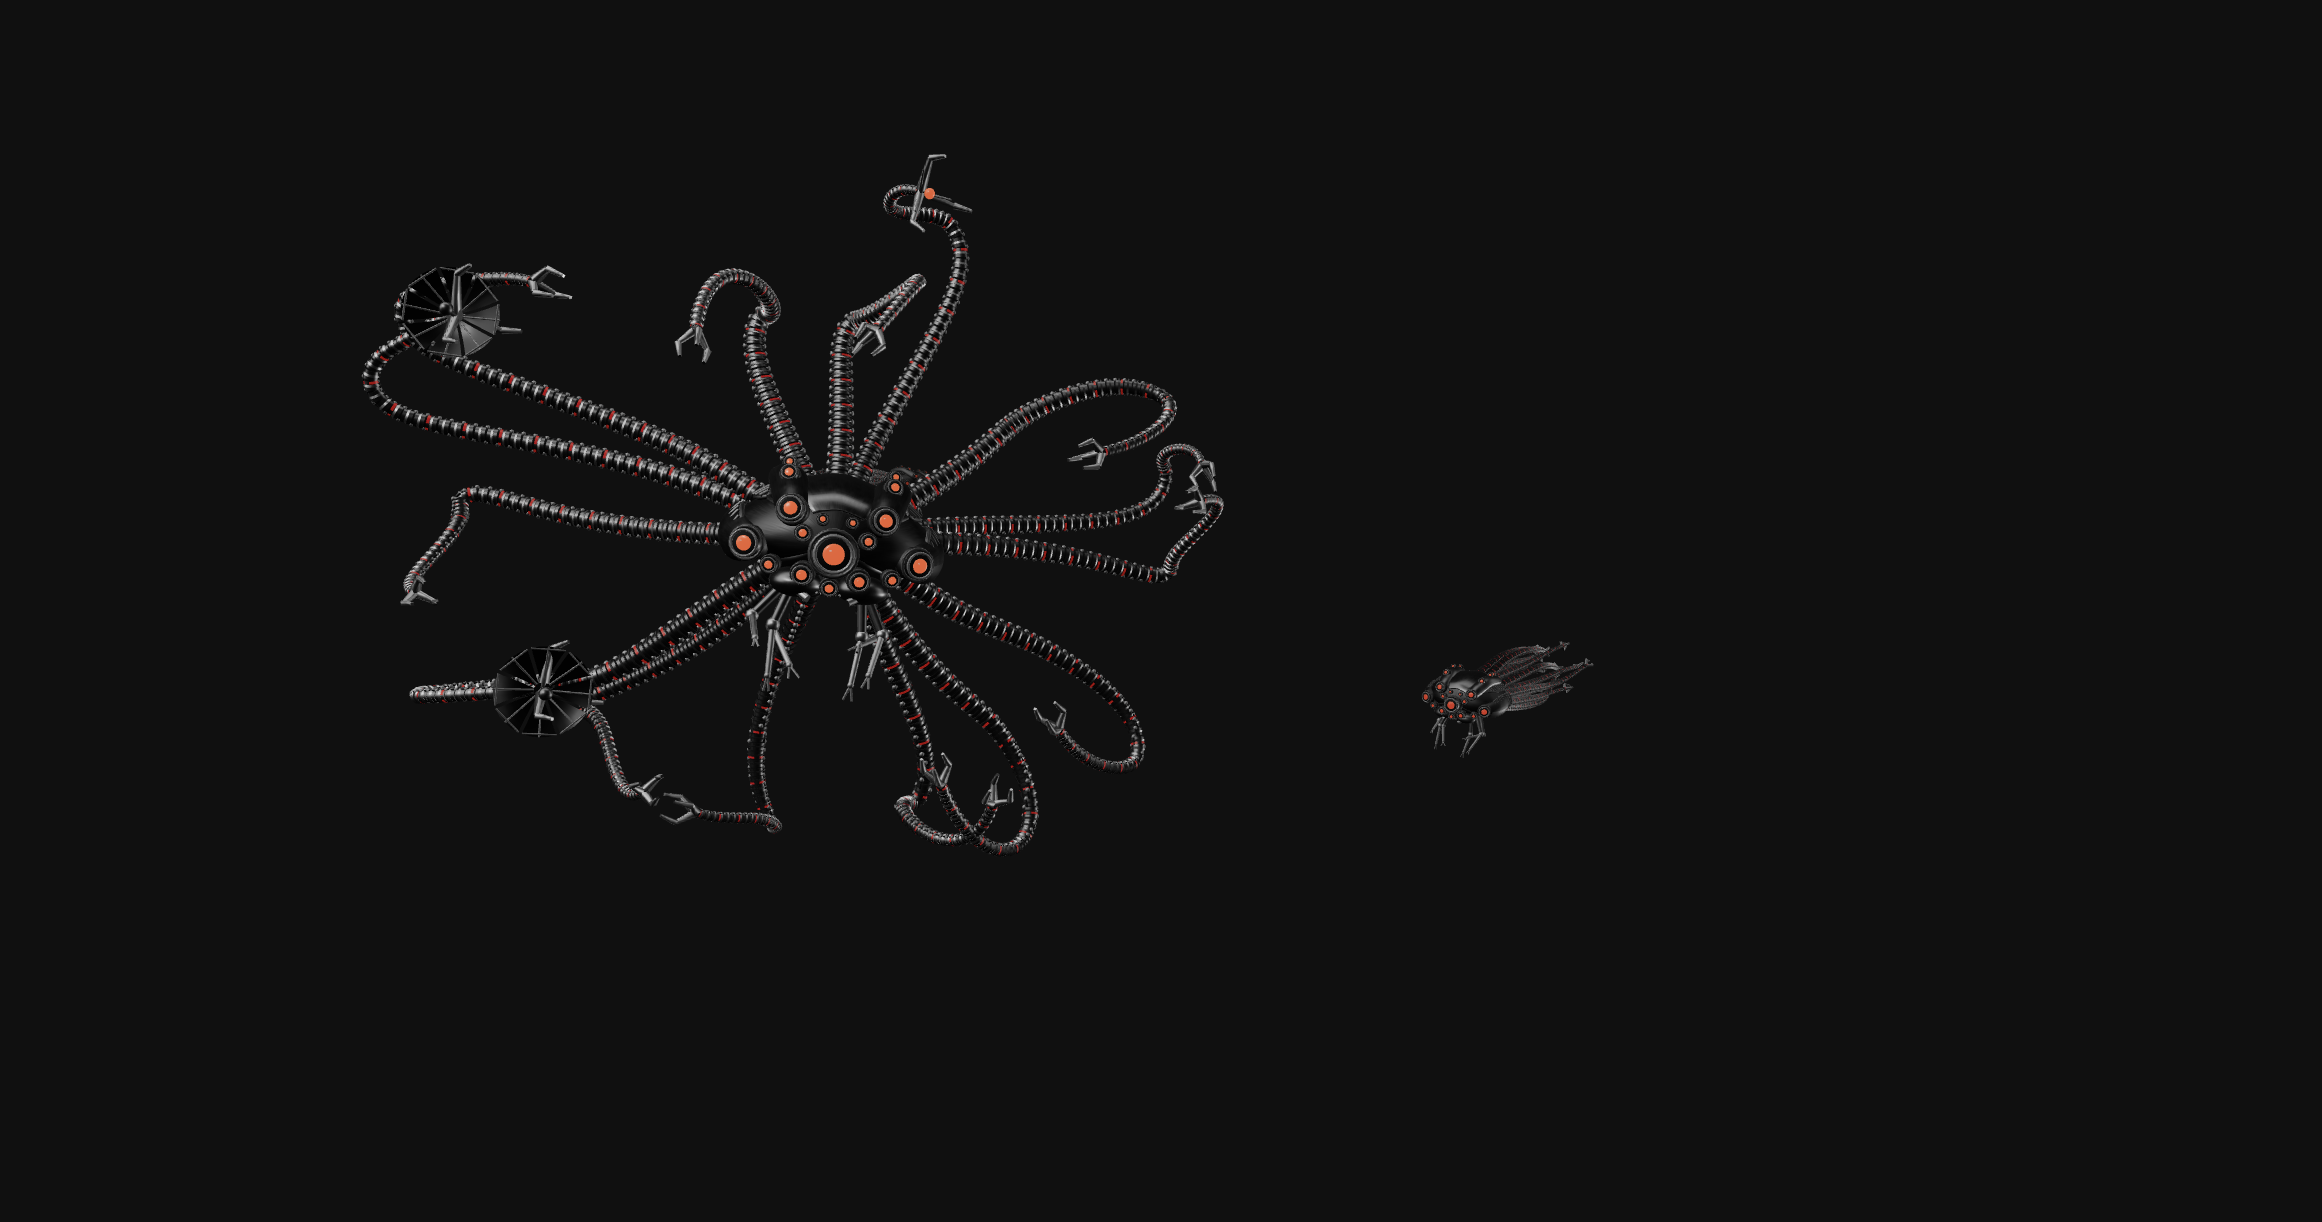
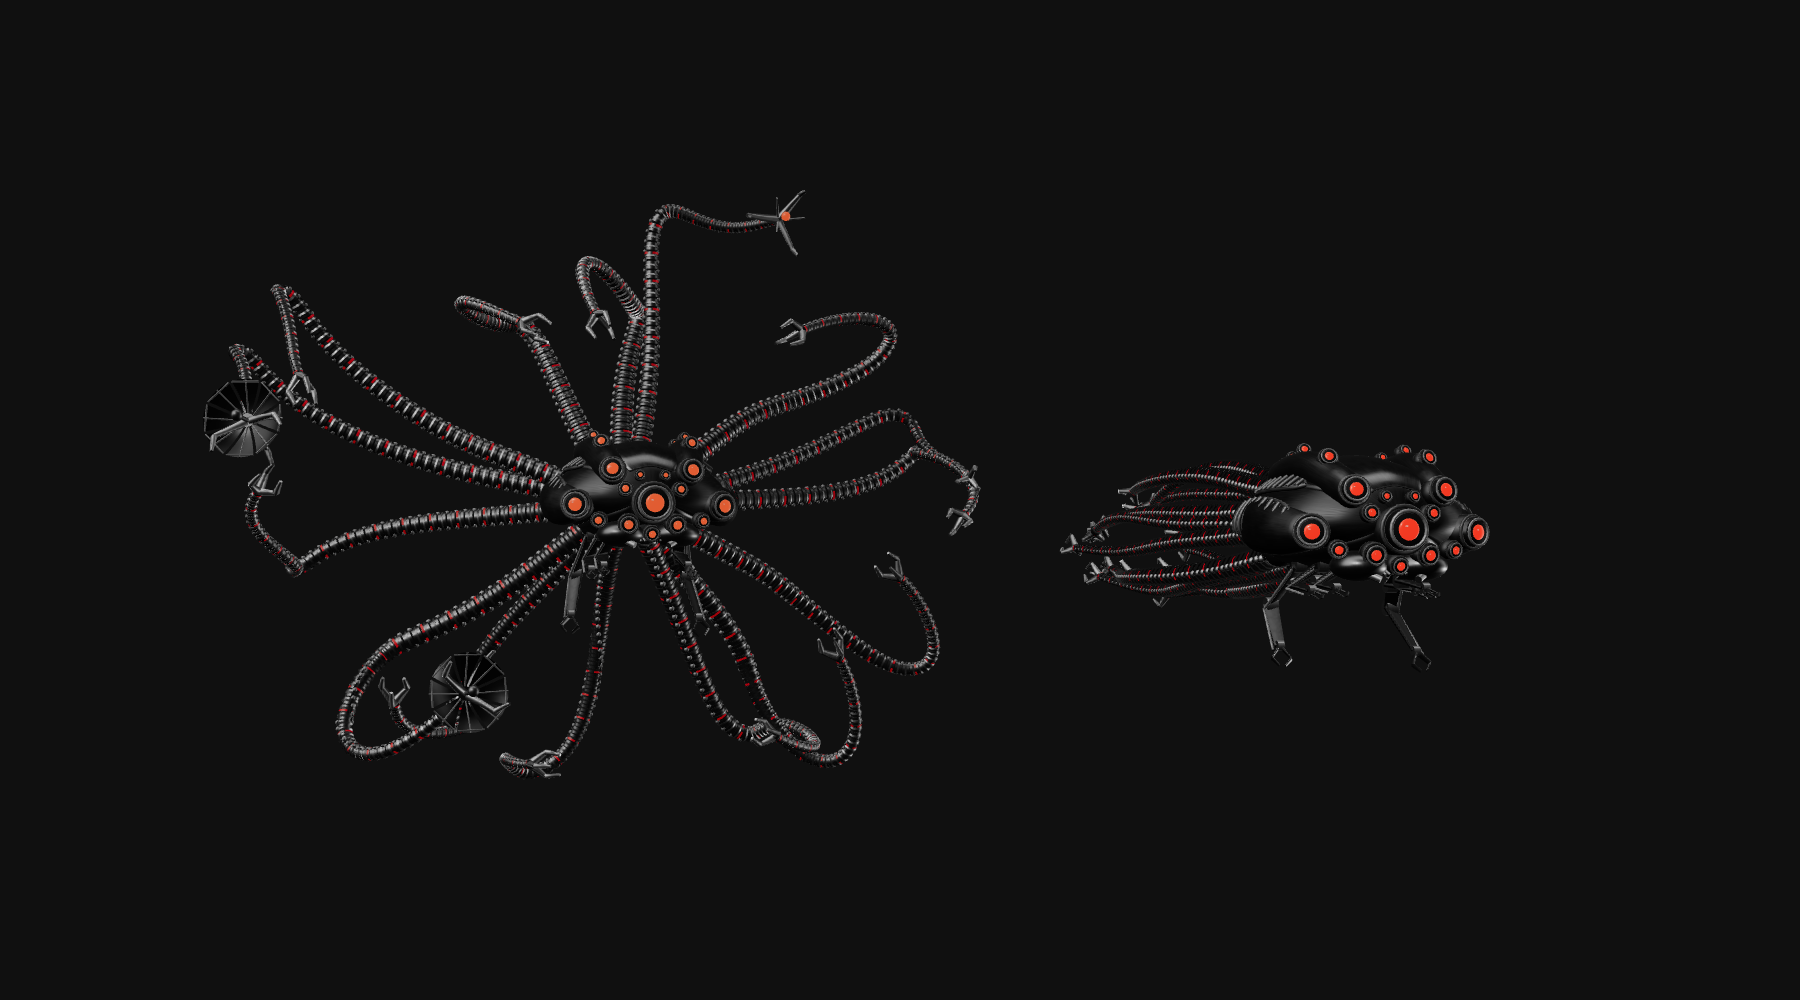
Rebuild folded jaw manipulators and correct singular host routing

diff --git a/sentinel-model.js b/sentinel-model.js
@@ -370,18 +370,28 @@ export function createSentinel() {
   const claws = instances(clawGeometry, steel, tentacleCount * 6);
   claws.name = 'Articulated grippers';
   const jointCaps = instances(jointGeometry, steel, total * 2);
-  // Keep the jaw manipulators out of the rigid carapace batch.
+  // Three staggered pairs of folded, blade-like tools under the chin.
   const armCount = 6;
-  const upperArms = instances(tubeGeometry, chrome, armCount);
+  const armPlateGeometry = new THREE.CylinderGeometry(.65, 1, 1, 4)
+    .rotateY(Math.PI / 4).scale(1.6, 1, .5);
+  const armHingeGeometry = new THREE.CylinderGeometry(1, 1, 1.4, 12)
+    .rotateZ(Math.PI / 2);
+  const upperArms = instances(armPlateGeometry, chrome, armCount);
   upperArms.name = 'Jaw upper arms';
-  const forearms = instances(tubeGeometry, steel, armCount * 3);
-  forearms.name = 'Jaw forearms and pincers';
-  const armJoints = instances(jointGeometry, steel, armCount * 3);
-  armJoints.name = 'Jaw joints';
+  const forearms = instances(armPlateGeometry, armor, armCount);
+  forearms.name = 'Jaw forearm plates';
+  const armJoints = instances(armHingeGeometry, steel, armCount * 3);
+  armJoints.name = 'Jaw hinge barrels';
+  const armLinkages = instances(tubeGeometry, steel, armCount * 2);
+  armLinkages.name = 'Jaw parallel linkages';
+  const fingers = instances(armPlateGeometry, chrome, armCount * 4);
+  fingers.name = 'Jaw hooked pincers';
   const armRoot = new THREE.Vector3();
   const armElbow = new THREE.Vector3();
   const armWrist = new THREE.Vector3();
+  const armKnuckle = new THREE.Vector3();
   const armTip = new THREE.Vector3();
+  const armOffset = new THREE.Vector3();
   const forearmDirection = new THREE.Vector3();
   const wristRotation = new THREE.Quaternion();
   const sensors = createSensorHardware(rig, { chrome, steel, eyeMaterial }, tentacleCount);
@@ -531,46 +541,69 @@ export function createSentinel() {
     }
   }
   function updateManipulators(time) {
+    // Hold folded poses between deliberate adjustments. Elbows follow the
+    // shoulder slightly later; the tools do not paddle or open with the tail.
     for (let i = 0; i < armCount; i++) {
       const side = i % 2 ? 1 : -1;
       const pair = Math.floor(i / 2);
-      const phase = i * 1.7;
-      const hanging = THREE.MathUtils.smoothstep(Math.sin(time * .23 + pair * .8), -.55, .55);
-      const shoulder = THREE.MathUtils.lerp(.65, .22, hanging) + .12 * Math.sin(time * .85 + phase);
-      const yaw = .45 + .13 * Math.sin(time * .54 + phase);
-      const upperLength = .7 + pair * .07;
-      armRoot.set(side * .42, -.42, .38 - pair * .36);
+      const phase = pair * 8.3 + (side > 0 ? 1.1 : 0);
+      const cycle = (time + phase) % 38;
+      const elbowCycle = (time + phase + 37.65) % 38;
+      const reach = THREE.MathUtils.smoothstep(cycle, 21, 24)
+        * (1 - THREE.MathUtils.smoothstep(cycle, 27, 31));
+      const follow = THREE.MathUtils.smoothstep(elbowCycle, 21, 24)
+        * (1 - THREE.MathUtils.smoothstep(elbowCycle, 27, 31));
+      const extension = reach * .7 + motion.sensing * .18;
+      const elbowExtension = follow * .7 + motion.sensing * .18;
+      const adjustment = .035 * Math.sin(time * .8 + i * 2.1);
+      const shoulderPitch = -.34 - extension * .65 + adjustment;
+      const forearmPitch = -.12 - elbowExtension * 1.05 - adjustment;
+      const upperLength = .66 + pair * .07;
+      const lowerLength = .58 + pair * .08;
+      armRoot.set(side * (.47 + pair * .10), -.46, .72 - pair * .48);
       armElbow.set(
-        side * Math.sin(shoulder) * Math.cos(yaw),
-        -Math.cos(shoulder),
-        Math.sin(shoulder) * Math.sin(yaw),
-      ).multiplyScalar(upperLength).add(armRoot);
-
-      const wristYaw = side * (-.32 + .2 * Math.sin(time * .72 + phase + .6));
-      const wristPitch = THREE.MathUtils.lerp(-.16, -1.23, hanging) + .13 * Math.cos(time * .92 + phase);
+        side * (.14 + extension * .09),
+        Math.sin(shoulderPitch),
+        -Math.cos(shoulderPitch),
+      ).normalize().multiplyScalar(upperLength).add(armRoot);
       forearmDirection.set(
-        Math.sin(wristYaw) * Math.cos(wristPitch),
-        Math.sin(wristPitch),
-        Math.cos(wristYaw) * Math.cos(wristPitch),
-      );
-      armWrist.copy(armElbow).addScaledVector(forearmDirection, .66 + pair * .04);
-      placeLink(upperArms, i, armRoot, armElbow, .07);
-      placeLink(forearms, i * 3, armElbow, armWrist, .045);
-      placeBall(armJoints, i * 3, armRoot, .075);
-      placeBall(armJoints, i * 3 + 1, armElbow, .09);
-      placeBall(armJoints, i * 3 + 2, armWrist, .045);
+        side * (.05 + elbowExtension * .14),
+        Math.sin(forearmPitch),
+        Math.cos(forearmPitch),
+      ).normalize();
+      armWrist.copy(armElbow).addScaledVector(forearmDirection, lowerLength);
+      placeLink(upperArms, i, armRoot, armElbow, .10);
+      placeLink(forearms, i, armElbow, armWrist, .085);
+      placeBall(armJoints, i * 3, armRoot, .10);
+      placeBall(armJoints, i * 3 + 1, armElbow, .105);
+      placeBall(armJoints, i * 3 + 2, armWrist, .065);
+
+      // Exposed parallel actuator gives the open mechanical silhouette.
+      armOffset.set(side * .10, -.055, .015);
+      armKnuckle.copy(armRoot).add(armOffset);
+      armTip.copy(armElbow).add(armOffset);
+      placeLink(armLinkages, i * 2, armKnuckle, armTip, .022);
+      armKnuckle.copy(armElbow).add(armOffset);
+      armTip.copy(armWrist).add(armOffset);
+      placeLink(armLinkages, i * 2 + 1, armKnuckle, armTip, .018);
 
       wristRotation.setFromUnitVectors(forward, forearmDirection);
-      const opening = .055 + .02 * Math.sin(time * 1.1 + phase);
+      const opening = .065 + reach * .065;
       for (let prong = 0; prong < 2; prong++) {
-        armTip.set((prong ? 1 : -1) * opening, -.04, .2)
+        const sign = prong ? 1 : -1;
+        armKnuckle.set(sign * opening, -.035, .19)
           .applyQuaternion(wristRotation).add(armWrist);
-        placeLink(forearms, i * 3 + 1 + prong, armWrist, armTip, .017);
+        armTip.set(sign * opening * .32, -.065, .29)
+          .applyQuaternion(wristRotation).add(armWrist);
+        placeLink(fingers, i * 4 + prong * 2, armWrist, armKnuckle, .037);
+        placeLink(fingers, i * 4 + prong * 2 + 1, armKnuckle, armTip, .025);
       }
     }
     upperArms.instanceMatrix.needsUpdate = true;
     forearms.instanceMatrix.needsUpdate = true;
     armJoints.instanceMatrix.needsUpdate = true;
+    armLinkages.instanceMatrix.needsUpdate = true;
+    fingers.instanceMatrix.needsUpdate = true;
   }
   function update(timeSeconds, alertAmount, signalAmount) {
     const alert = Math.min(1, Math.max(0, alertAmount));

diff --git a/CHANGELOG.md b/CHANGELOG.md
@@ -3,13 +3,15 @@
 ## Unreleased
 
 - Rename the project and repository to `matrix-squid`, serve it at `matrix-squid.danieljohnmorris.com`, and permanently redirect the previous plural host from the container.
-- Add a README screenshot of a close Sentinel deploying its sensor dishes and probes, with a second swimmer behind.
+- Add a README screenshot of deployed sensor dishes and probes beside a closer coasting Sentinel, using the live scene's lighting and metal materials.
+- Rebuild the six underside manipulators as folded, flattened linkages with hinge barrels, parallel actuators and hooked pincers; replace continuous dangling motion with staggered, eased reaches.
+- Explicitly match the singular nginx host and make it the default server, avoiding a self-redirect after the rename.
 
 - Replace text controls with stateful pause/play and fullscreen icons plus the GitHub logo, retaining accessible labels, tooltips and 44px targets.
 - Add vgpu-baked brushed-metal roughness and normal maps, neutral reflection lighting and tone mapping; preserve dark gunmetal between lit highlights.
 - Keep tentacle running lights as subdued red accents, dimmer than the optical lenses.
 - Add spaced emissive red windows along all fifteen tentacles, attached to their simulated segments rather than a separate animation.
-- Let the jaw manipulators alternate between reaching and hanging beneath the head, with staggered shoulders and wrists.
+- Animate the jaw manipulators independently of the main tentacle propulsion and sensing poses.
 - Soften distal tentacle springs during swimming and sensing, and propagate propulsion opening/contraction from root to tip without resetting particle velocity.
 - Stagger close world-space patrols and retain a distant patrol for depth; rejoin ahead of the nearest route point after avoidance rather than orbiting a missed waypoint. Camera orbit never moves swimmers or their destinations.
 - Group Pause/Resume, Fullscreen and the public GitHub link in one responsive top-right control cluster.

diff --git a/README.md b/README.md
@@ -4,7 +4,7 @@ A procedural Three.js swarm inspired by the Sentinels from *The Matrix*: articul
 
 **[Open the live demo](https://matrix-squid.danieljohnmorris.com)**
 
-![A close Sentinel with deployed sensor dishes and probes, with another swimming farther behind.](public/screenshots/matrix-squid.png)
+![A Sentinel deploying sensor dishes and probes beside a closer coasting Sentinel.](public/screenshots/matrix-squid.png)
 
 ## The scene
 
@@ -15,6 +15,8 @@ Each Sentinel has a sculpted mechanical head, fifteen segmented tentacles, artic
 - **Sense:** the swimmer slows to a stop, looks around and deploys sensor probes and dishes; the tentacles settle rather than rotating rigidly with the head.
 
 Swimmers follow world-space routes with collision-avoidance steering. Staggered close passes and distant patrols provide depth; orbiting the camera does not reposition the swarm. Grey fog softens the distance, while directional lights and neutral environment reflections reveal the metal. Subdued red running lights follow the simulated tentacle segments.
+
+The six small underside manipulators are separate hinged tools: flattened links, exposed parallel actuators and hooked pincers. They normally fold beneath the chin, occasionally reaching or hanging in staggered pairs rather than paddling with the propulsion stroke.
 
 ## Controls
 
